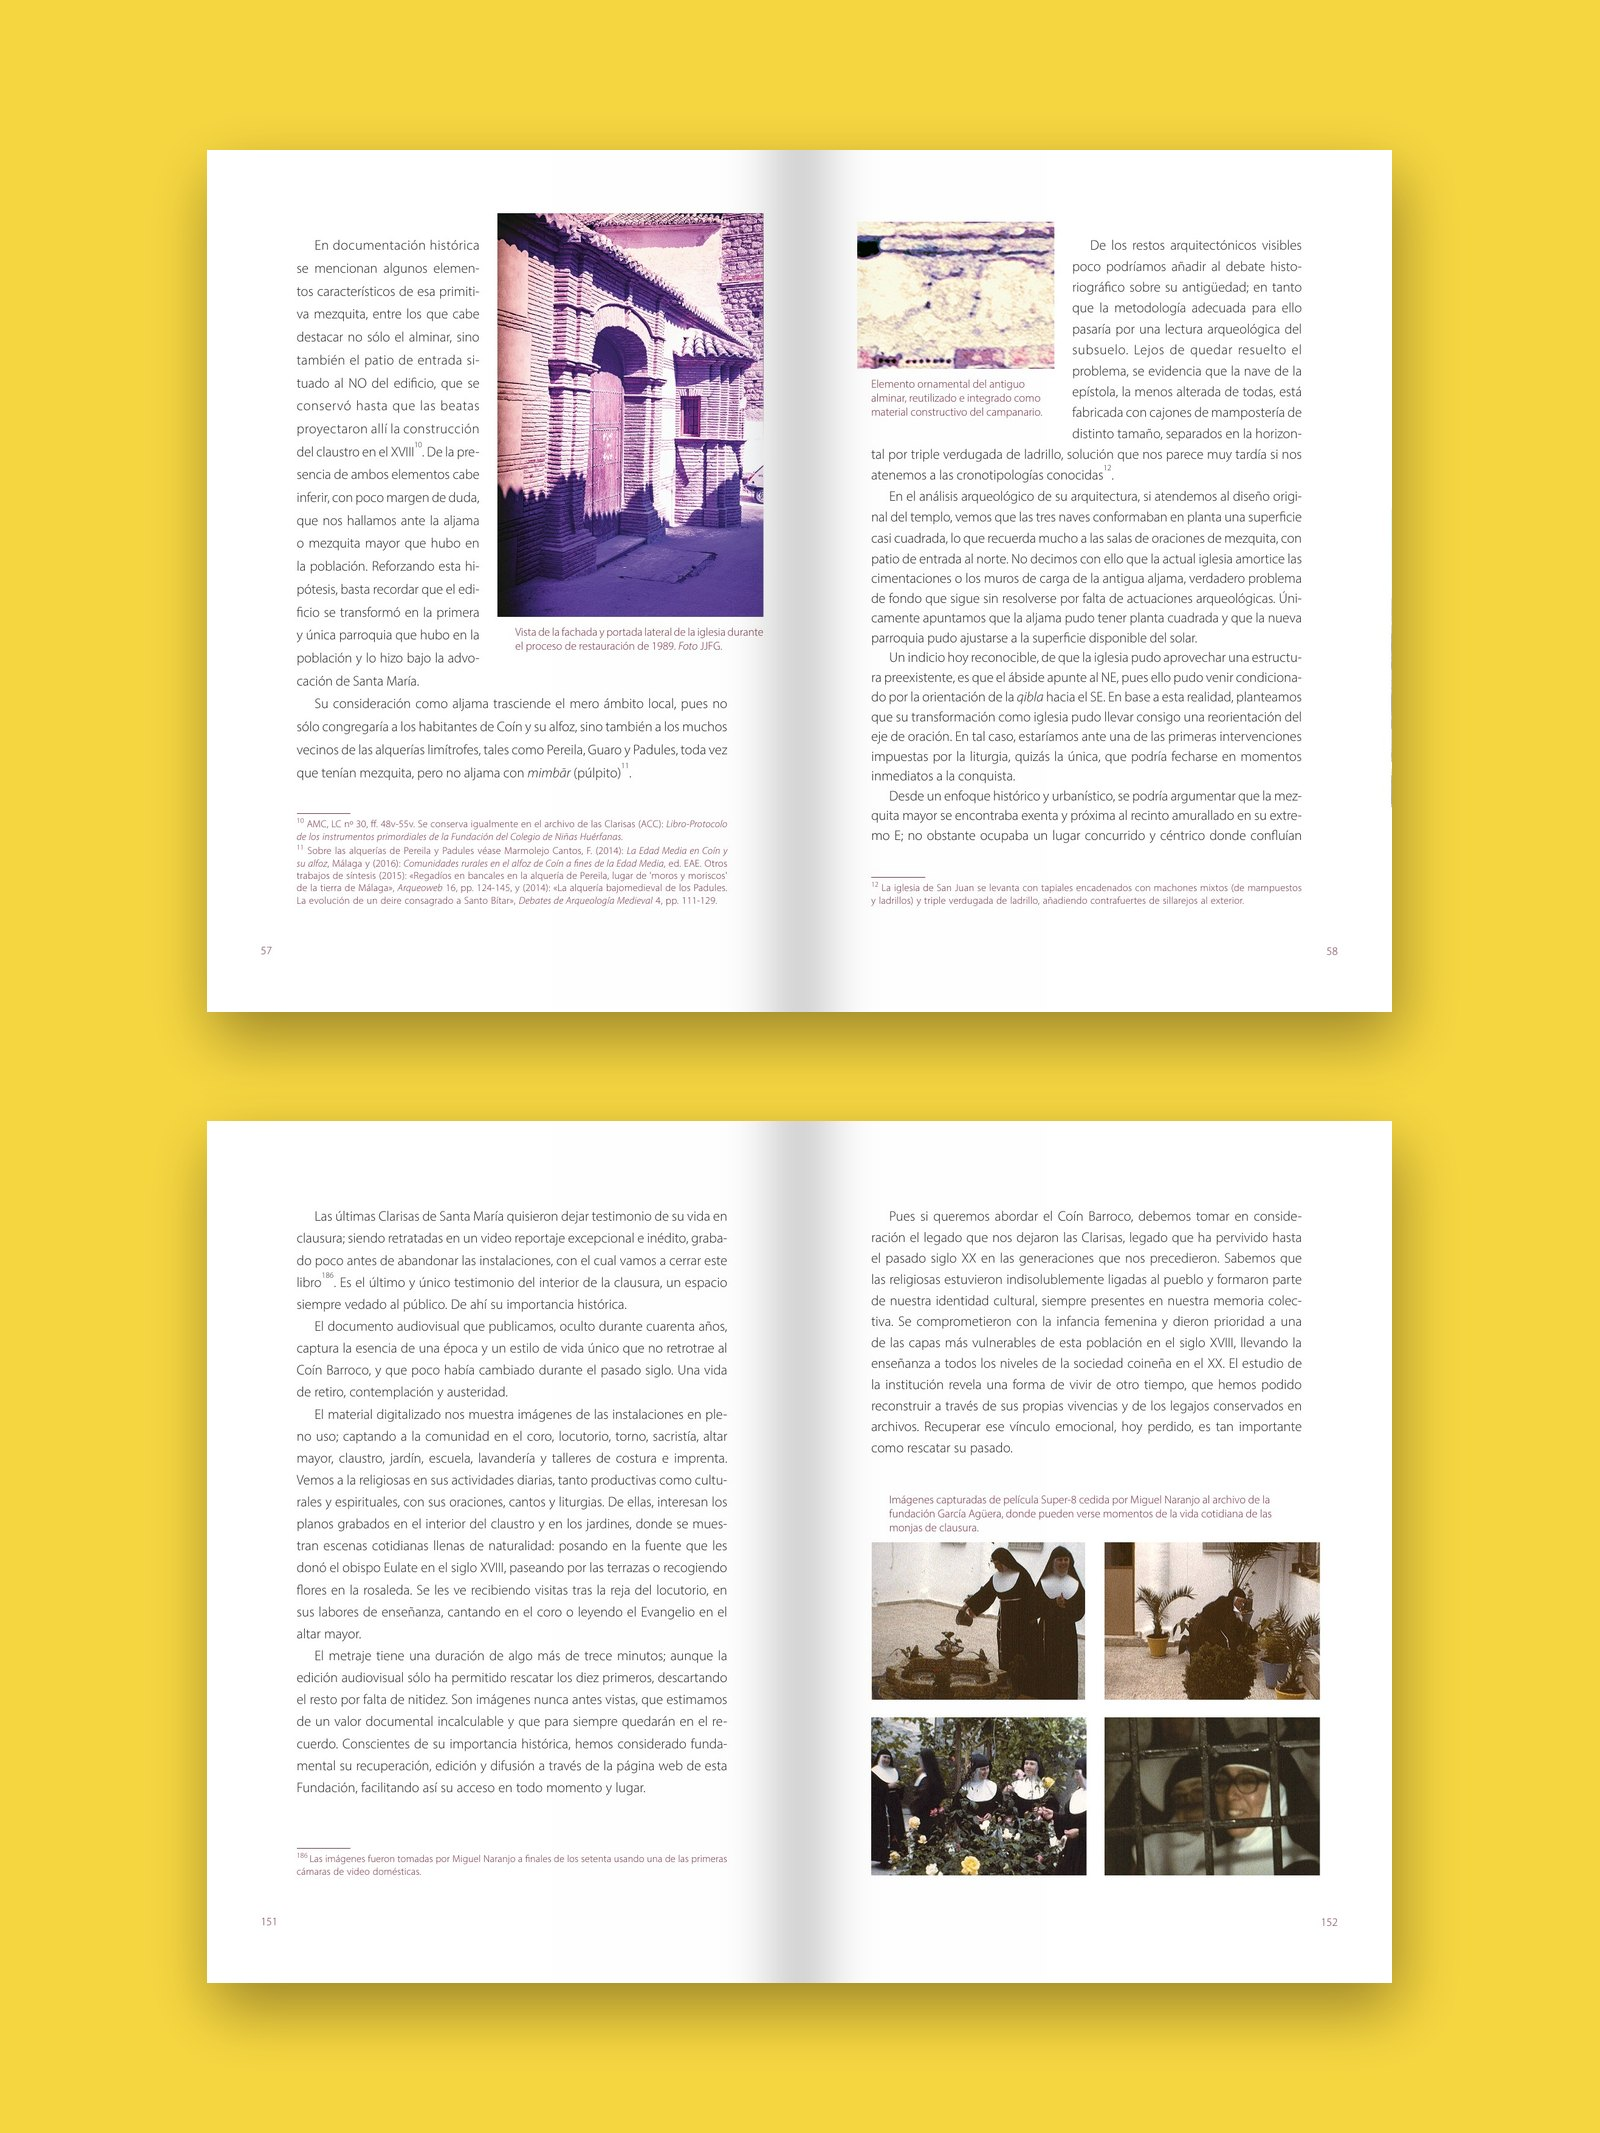
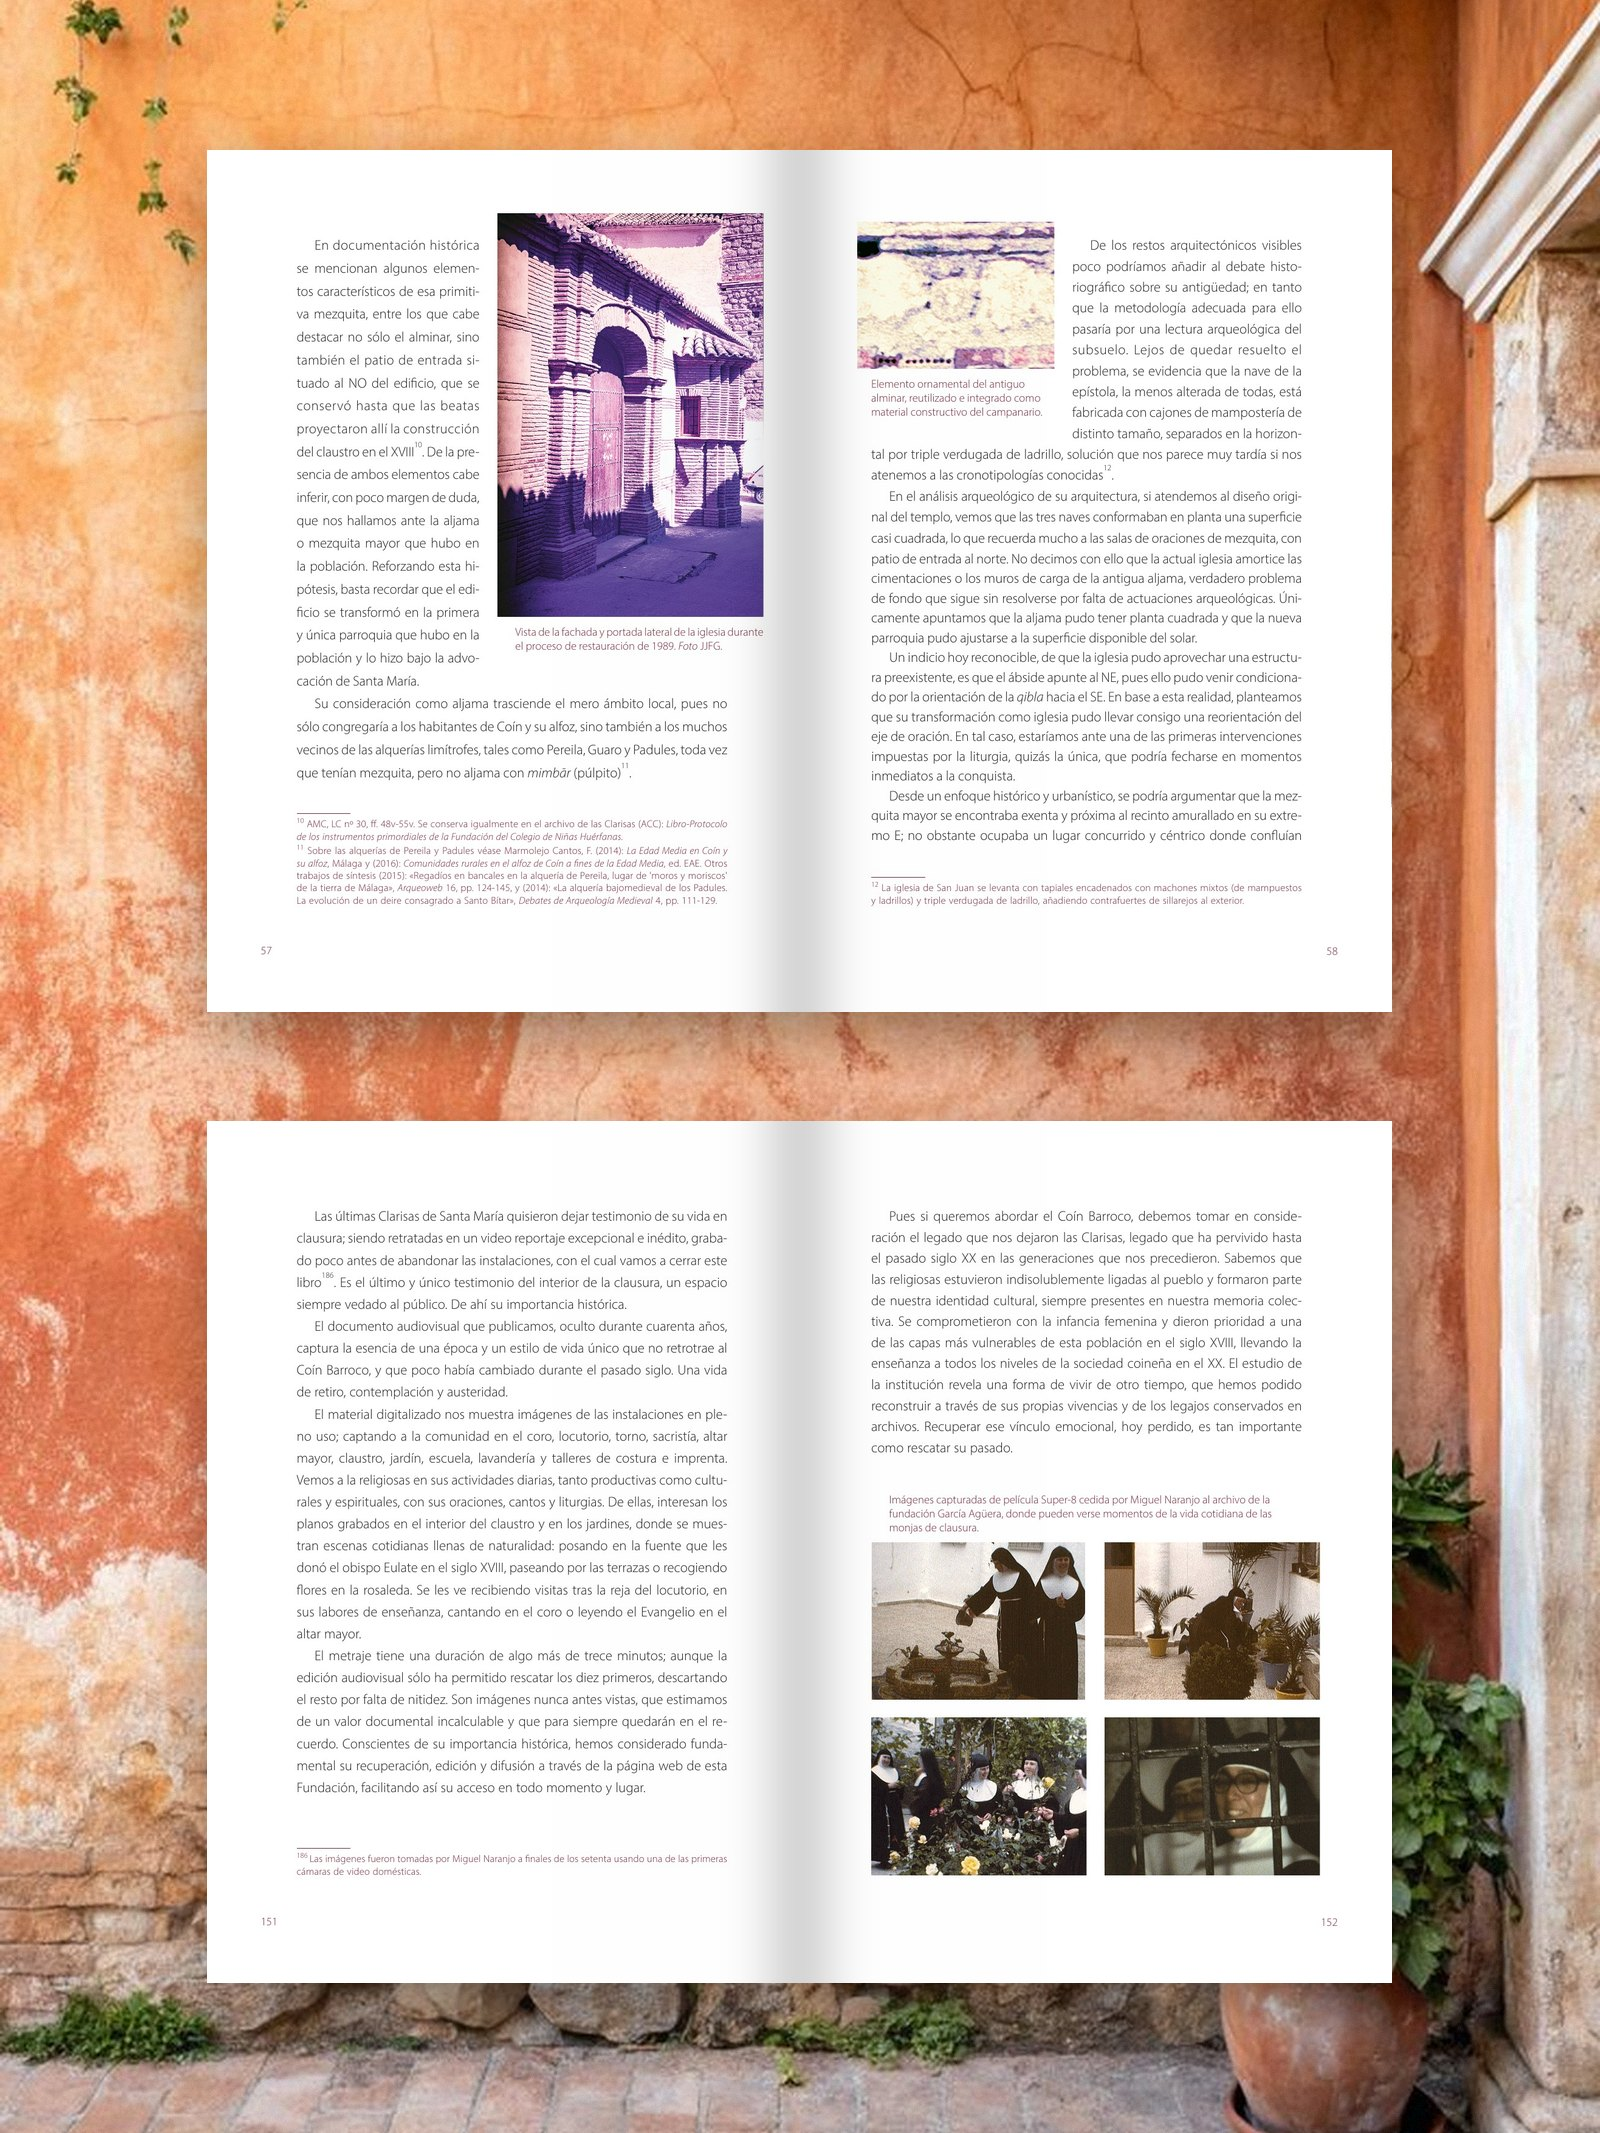
Fondos nuevos en las fotos amarillas de Coín
Claude-Session: https://claude.ai/code/session_014ZHEqD2MNxqjAg6cJYzQom

diff --git a/web/scripts/montaje.py b/web/scripts/montaje.py
@@ -59,13 +59,13 @@ CATALOGOS = {
     "coin": ("06-santa-maria-de-coin", "santa-maria-coin-dobles", PDF_COIN, [
         ("23d9fb77-4e7c-4720-8d7b-062e5e25e1ee", [93]),
         ("1172d16d-e742-4f7e-9581-373da77dc44a", ["m2", "m3"]),
-        (None, [111]),
+        ("9179e760-a2fa-47d0-b6f0-0f5ae283ab5e", [111]),
         ("8bbeb95b-303d-4154-a944-ff73c45d4b3a", [53, 129]),
         ("997ff50b-a9af-4475-8f22-6175f6e769e1", ["m1"]),
         ("9b9a6fed-841c-4da0-90d0-0737371dce5f", [67, 103]),
         ("00b5d91c-b5b1-4e04-a55e-8d452ca626d9", ["m4"]),
-        (None, [57, 143]),
-        (None, [89, 107, 135]),
+        ("bdcbab72-150f-419a-853e-6d001e2f60b2", [57, 143]),
+        ("6a172977-db44-4ab5-90cd-4bb5c4c1cb15", [89, 107, 135]),
     ]),
 }
 QUITA_ABAJO = {"61af4831-1489-4214-9d6d-b71583ff5b5f": .07}  # marca de agua
